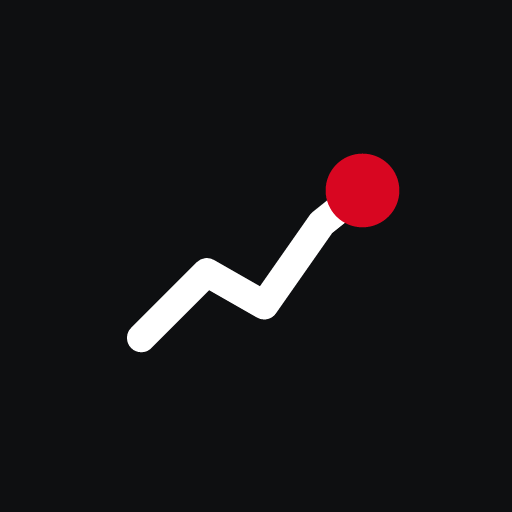
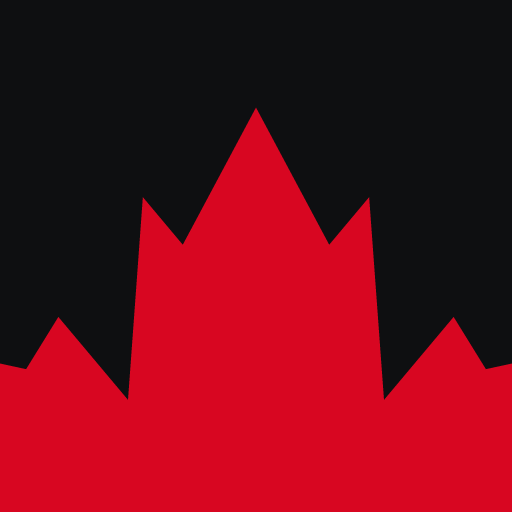
Maple leaf area-chart mark; site card uses the wordmark
The mark is now a red maple leaf drawn as an area chart on a square ink
tile. The top bar, favicon, app icons and profile images use it. The OG
site card shows the top bar's mark and statcan(2) wordmark at 72 px.

diff --git a/api/src/og.ts b/api/src/og.ts
@@ -5,6 +5,7 @@ import * as render from "../public/render.js";
 // @ts-expect-error Browser-owned pure-JS layout has no TypeScript declaration; fields are typed below.
 import * as exportLayout from "../public/export-layout.js";
 import type { Db } from "./db.ts";
+import { BRAND_MARK } from "./pages.ts";
 import { decodeSpec, type ViewResult, type ViewSeries } from "./spec.ts";
 import { runView } from "./view.ts";
 
@@ -18,6 +19,7 @@ const { esc, seriesShades, methodLines, ownPoints, isHorizontal } = render as un
 const sans = fileURLToPath(new URL("../node_modules/geist/dist/fonts/geist-sans/Geist-SemiBold.ttf", import.meta.url));
 const regular = fileURLToPath(new URL("../node_modules/geist/dist/fonts/geist-sans/Geist-Regular.ttf", import.meta.url));
 const mono = fileURLToPath(new URL("../node_modules/geist/dist/fonts/geist-mono/GeistMono-Regular.ttf", import.meta.url));
+const monoMedium = fileURLToPath(new URL("../node_modules/geist/dist/fonts/geist-mono/GeistMono-Medium.ttf", import.meta.url));
 type Layout = {
   width: number; height: number; margin: number; scale: number;
   title: { y: number; size: number; minSize: number };
@@ -347,11 +349,15 @@ export function chartSvg(view: ViewResult) {
   </svg>`;
 }
 
-// The site card: title, one line on what the site is, and a sample line drawn like an export's series line.
+// The site card: the top bar's mark and wordmark at 72 px, one line on what the site is, and a sample line
+// drawn like an export's series line. Sizes and spacing scale the top bar's CSS (19 px wordmark) by 72/19.
 function siteSvg() {
+  const size = 72, k = size / 19, baseline = 128;
+  const mark = 20 * k, markY = baseline - .31 * size - mark / 2;
   return `<svg xmlns="http://www.w3.org/2000/svg" width="1200" height="630" viewBox="0 0 1200 630">
     <rect width="1200" height="630" fill="${paper}"/>
-    <text x="64" y="128" font-family="${FONTS.sans}" font-size="72" font-weight="600" fill="${ink}">${text(PUBLIC_HOST)}</text>
+    <svg x="64" y="${markY.toFixed(1)}" width="${mark.toFixed(1)}" height="${mark.toFixed(1)}" viewBox="0 0 100 100">${BRAND_MARK}</svg>
+    <text x="${(64 + mark + 8 * k).toFixed(1)}" y="${baseline}" font-family="${FONTS.sans}" font-size="${size}" font-weight="600" letter-spacing="${(-.03 * size).toFixed(2)}" fill="${ink}">statcan<tspan dx="${(2 * k).toFixed(1)}" font-family="${FONTS.mono}" font-size="${(15 * k).toFixed(1)}" font-weight="500" letter-spacing="${(-.05 * 15 * k).toFixed(2)}" fill="${palette[0]}">(2)</tspan></text>
     <text x="64" y="186" font-family="${FONTS.sans}" font-size="28" fill="${muted}">Explore and chart published Statistics Canada data.</text>
     <path d="${SITE_LINE}" fill="none" stroke="${palette[0]}" stroke-width="5" stroke-linejoin="round" stroke-linecap="round"/>
   </svg>`;
@@ -372,7 +378,7 @@ function textSvg(title: string, description: string) {
 }
 
 function png(svg: string) {
-  return new Resvg(svg, { fitTo: { mode: "original" }, font: { fontFiles: [regular, sans, mono], loadSystemFonts: false,
+  return new Resvg(svg, { fitTo: { mode: "original" }, font: { fontFiles: [regular, sans, mono, monoMedium], loadSystemFonts: false,
     defaultFontFamily: "Geist" } }).render().asPng();
 }
 

diff --git a/api/src/pages.ts b/api/src/pages.ts
@@ -17,9 +17,12 @@ const HIGHCHARTS = { src: "https://cdn.jsdelivr.net/npm/highcharts@13.1.1/highch
 const PUBLIC_DIR = fileURLToPath(new URL("../public", import.meta.url));
 
 
+/** The favicon's mark (brand/build.mjs concept f, the maple leaf as an area chart) on a 100×100 viewBox. */
+export const BRAND_MARK = `<rect width="100" height="100" fill="#0E0F11"/><path d="M0 100L0 64L5.1 65.1L11.4 54.9L25 71.1L27.9 31.5L35.7 40.8L50 14L64.3 40.8L72.1 31.5L75 71.1L88.6 54.9L94.9 65.1L100 64L100 100Z" fill="#D80621"/>`;
+
 function logo() {
-  // The favicon's mark (brand/build.mjs concept e, small drawing), then the wordmark.
-  return html`<a class="brand" data-pp="pp_mury6rk1a84x" href="/" aria-label="statcan(2) home"><svg class="brand-mark" viewBox="0 0 100 100" aria-hidden="true"><rect width="100" height="100" rx="18" fill="#0E0F11"/><path d="M18 72L40 52L56 60L74 32" fill="none" stroke="#fff" stroke-width="11" stroke-linejoin="round" stroke-linecap="round"/><circle cx="74" cy="32" r="11" fill="#D80621"/></svg><span class="brand-word">statcan<span class="brand-version">(2)</span></span></a>`;
+  // The mark, then the wordmark.
+  return html`<a class="brand" data-pp="pp_mury6rk1a84x" href="/" aria-label="statcan(2) home"><svg class="brand-mark" viewBox="0 0 100 100" aria-hidden="true">${raw(BRAND_MARK)}</svg><span class="brand-word">statcan<span class="brand-version">(2)</span></span></a>`;
 }
 
 /** The last top bar item, on every page: an outline button to the project's Buy Me a Coffee page, in a new tab. */

diff --git a/DESIGN.md b/DESIGN.md
@@ -20,7 +20,7 @@ The site is a data terminal. It is a serious tool, not a marketing site.
    - **Reference pages** (`/api`, `/mcp`) keep the same 56 px top bar and 48 px footer as the app. Their article scrolls between those fixed rows, so the footer has the same top and height at 1440 × 900 on home, chart and reference pages.
    - Rows in lists use a minimum height, not a fixed height, so a long title wraps and the row grows.
 3. **Real data only.** Every number, title, member, note and ID comes from a build on the SSD (`v0` and its Normalized build `n4` for WDS tables, `census-full-1` for Census tables). Never invent a value.
-4. **Not official.** The site must not look like a Government of Canada service. No maple leaf, no FIP bar, no government colours or wordmark. Every page with a footer says "Independent. Not affiliated with Statistics Canada." Statistics Canada is named only as the source of the data.
+4. **Not official.** The site must not look like a Government of Canada service. No flag, Canada wordmark or government maple leaf symbol, no FIP bar, no government colours. The one leaf is the logo's: drawn as an area chart, cropped, on an ink tile. Every page with a footer says "Independent. Not affiliated with Statistics Canada." Statistics Canada is named only as the source of the data.
 5. **Check before hand-off.** Screenshot changed screens at 1440 × 900 and 1900 × 1040. Look for clipped text, overlaps and lines that do not align.
 6. **Desktop first.** The app screen also works on a phone: the head band stacks, the plot is 60 % of the viewport height, and the chart builder becomes a bottom sheet. Document pages are desktop only.
 
@@ -111,12 +111,12 @@ The palette was chosen for colour-blind separation: under simulated protanopia, 
 | Component | Spec |
 |---|---|
 | **Top bar** | 56 px high, wordmark at left (padding 48), "API", "MCP" and a 32 px outline "Donate" button (https://buymeacoffee.com/statcan2, new tab) at right (padding 24), and no rule under it on any page. The search box is centred on the viewport, not on the space between the wordmark and the nav, at one width, min(640 px, viewport − 440 px), 40 px high, 8 px from the top: the same x, y and width on the app screen, the home page and every reference page (`api/public/topbar.css`). It has a red `›`, Geist 18, a 2 px ink underline and no outline; reference pages submit it to `/?q=`. On the app screen a 2 px progress line runs along the bar's bottom edge while a request is in flight. The chart's actions sit in the detail rail, not in the top bar. Phones (≤ 900 px): the box fills the space after the wordmark and the nav is hidden. |
-| **Logo** | The mark, 20 px, 8 px gap, then "statcan" in Geist 19/22 600, tight tracking, followed by "(2)" in red Geist Mono 15/22 500. The mark is the favicon: a white rising line ending in a red dot on an ink tile (`brand/README.md`). No government wordmark or maple leaf. |
+| **Logo** | The mark, 20 px, 8 px gap, then "statcan" in Geist 19/22 600, tight tracking, followed by "(2)" in red Geist Mono 15/22 500. The mark is the favicon: a red maple leaf drawn as an area chart on a square ink tile (`brand/README.md`). No government wordmark or flag leaf. |
 | **Head band** | Above the plot, padding 20 24 12 48. Eyebrow in mono 12 secondary, one line, cut with an ellipsis: one source table shows its number (ink, linking to the official Statistics Canada table in a new tab) then `·` and the table title, with the full title in a tooltip (`14-10-0397-01 · Labour force characteristics by family structure, monthly…`); several tables show only their numbers, each linked, with titles in tooltips. Title Geist 32/38 600 (from `ViewResult.title`; it describes the chart, not the table). Sub line Geist 15 secondary, parts joined by ` · `, each part only once: `ViewResult.subtitle`; then the period from `ViewResult.period` (`Aug 2025 – Aug 2026`, one date when from = to) unless the subtitle already names it; then the axis units unless the subtitle names them; then the transform name only when the title does not already say it (a title with "% change" drops "% change over window"). Example: "Gasoline vs Food by province, % change over 1 year" / "Aug 2025 – Aug 2026 · %". Warnings (`ViewResult.warnings`) follow as mono 12 lines with a red `!`, never as a modal. "Also" offers the planner's alternatives as one mono 12 line of links, each cut to 36 characters; the row is absent when there are none. An alternative over the same tables with another chart type reads "as area chart" (etc.); other alternatives show the planner's label. The "Chart builder" button sits at the right, aligned to the bottom of the band; it is ink-filled while the sidebar is open. |
 | **Detail rail** | 48 px band under the plot with no top rule, padding 0 24 0 48. One row of small buttons: Table, Notes (count), Download, Cite (count when more than one source), API; then, after a 1 px `Rule` divider, the two actions: **Screenshot** (outline, camera icon) and **Share** (ink fill, white text, share icon). Each button is 28 px high, Geist 13 500, count in mono 11 tertiary; a detail button whose popover is open is ink-filled with white text. On phones the two actions show icons only (their names stay as accessible labels). There is no toast: each action's own label confirms it (on phones the word shows in the button while it flashes). The independence line sits at the right in mono 12 tertiary (hidden on phones). Buttons and actions are hidden in the blank states. |
 | **Screenshot** | Copies the export PNG to the clipboard (`navigator.clipboard.write` with a `ClipboardItem` holding the PNG's Promise, so Safari keeps the click's user activation); the label reads "Copied". If the clipboard cannot take an image (no `ClipboardItem`, not a secure context, or the write is refused), the same PNG downloads, named from the title (`renter-vs-owner-by-province.png`), and the label reads "Saved". The button's label reads "Copied", "Saved" or "Failed" for 1.5 s; every label shares one grid cell, so the button never changes size. The image is the **Export** below. |
 | **Share** | Copies the published link, `https://statcan2.ca/?q=…&s=…` (the exact chart, with an open popover's `#p-…` if any); its label reads "Copied" for 1.5 s in a box of fixed size. On touch devices with `navigator.share` it opens the system share sheet instead. Local testing can point the link elsewhere with `?origin=…` (not copied into the link). |
-| **Export** | One look for the Screenshot PNG and the OG image (`/og/chart.png`); the numbers live in `api/public/export-layout.js`, which both renderers import. Screenshot: a fixed 1600×900 canvas at 2× (3200×1800), the same at any window size and builder state; OG: 1200×630, every size scaled by width. 64 px side margins. Top to bottom: title Geist 600 56 px on one line, shrinking to 40 px, then cut with `…`; the page's sub line in Geist 24 secondary; method and gap lines in Geist Mono 20 secondary; a 1 px `Rule`. The plot: lines 3.5 px, markers only on isolated points, axis labels Geist Mono 18 secondary, light gridlines, ticks at least 150 px apart, each axis titled with its unit when there are two. A single series has no label or legend: the title and sub line name it, and the plot keeps the full width. Legend: a line chart with 2–4 drawn series gets direct labels at the line ends instead (Geist 20 in the series colour, name then the last value in 600, at most 300 px wide with long names cut with `…`, pushed apart so they never overlap); otherwise one legend row of 14 px swatches and Geist 19 names, wrapping to at most 2 rows; over 12 series, the top 12 by last value and "+N more"; unpublished series listed as on screen ("not published"). Then a 1 px `Rule` and the footer in Geist Mono 18 secondary: `Table 18-10-0004-01` at left (all tables, cut with `…` if too long), `statcan2.ca` at right (the period is already in the sub line). The image never names the request host. In the OG image, long value labels move the plot right so they stay inside the margin. The site card (`/og/site.png`, and any chart link that does not resolve): `statcan2.ca` in Geist 600 72, "Explore and chart published Statistics Canada data." in Geist 28 secondary, and one sample line in red, 5 px, across the lower half; no eyebrow, rules or footer. Geist and Geist Mono are loaded for every character drawn before the canvas is drawn, and the plot's SVG embeds them, so no glyph falls back or drops (checked: every "s" of "Seasonally adjusted"). |
+| **Export** | One look for the Screenshot PNG and the OG image (`/og/chart.png`); the numbers live in `api/public/export-layout.js`, which both renderers import. Screenshot: a fixed 1600×900 canvas at 2× (3200×1800), the same at any window size and builder state; OG: 1200×630, every size scaled by width. 64 px side margins. Top to bottom: title Geist 600 56 px on one line, shrinking to 40 px, then cut with `…`; the page's sub line in Geist 24 secondary; method and gap lines in Geist Mono 20 secondary; a 1 px `Rule`. The plot: lines 3.5 px, markers only on isolated points, axis labels Geist Mono 18 secondary, light gridlines, ticks at least 150 px apart, each axis titled with its unit when there are two. A single series has no label or legend: the title and sub line name it, and the plot keeps the full width. Legend: a line chart with 2–4 drawn series gets direct labels at the line ends instead (Geist 20 in the series colour, name then the last value in 600, at most 300 px wide with long names cut with `…`, pushed apart so they never overlap); otherwise one legend row of 14 px swatches and Geist 19 names, wrapping to at most 2 rows; over 12 series, the top 12 by last value and "+N more"; unpublished series listed as on screen ("not published"). Then a 1 px `Rule` and the footer in Geist Mono 18 secondary: `Table 18-10-0004-01` at left (all tables, cut with `…` if too long), `statcan2.ca` at right (the period is already in the sub line). The image never names the request host. In the OG image, long value labels move the plot right so they stay inside the margin. The site card (`/og/site.png`, and any chart link that does not resolve): the top bar's mark and wordmark scaled to 72 px (mark 76 px, "statcan" Geist 600, "(2)" red Geist Mono 500), "Explore and chart published Statistics Canada data." in Geist 28 secondary, and one sample line in red, 5 px, across the lower half; no eyebrow, rules or footer. Geist and Geist Mono are loaded for every character drawn before the canvas is drawn, and the plot's SVG embeds them, so no glyph falls back or drops (checked: every "s" of "Seasonally adjusted"). |
 | **Detail popover** | Opened by its rail button; one at a time. It sits above its button, centred on it and clamped 12 px inside the window, with a 10 px caret pointing down at the button. White, 1 px `Border`, a very light shadow (0 2 10 ink at 6 %) only to lift it off the plot. No title inside: the ink-filled rail button says which one is open (the name stays for screen readers). A 24 px × sits in the top-right corner, in a 40 px lane on the right that content never enters (body padding), so the body's scrollbar sits at the popover's right edge, right of the ×. All content has one inset: 16 px top and bottom, 20 px left (16 px on phones); the Table has no top inset, because its sticky header carries it. The body is the only part that scrolls (it never scrolls the page). Width: Download and Cite 600 px, API 720 px, Notes 760 px; Table is as wide as its table plus the insets (no blank area to the right) up to 960 px, and a wider table scrolls inside. Never wider than the window minus 24 px. Height fits the content up to 70 % of the window, and never above the top bar. It closes on the same button, × , Esc, or a click outside; focus moves into it on open, Tab and Shift+Tab stay inside it, and focus returns to its button on close. `#p-table`, `#p-notes`, `#p-download`, `#p-cite`, `#p-api` open the matching popover on load, so old links keep working. A new chart keeps the open popover, re-filled and re-anchored; a blank state closes it. On phones (≤ 900 px) it is a bottom sheet: full width, directly above the rail, up to the top bar, 1 px ink rule on top, no caret, no shadow. Without JavaScript the five panels appear as plain sections below the screen, each with its title, and the rail buttons are links to them. |
 | **Chart builder** | Right sidebar, 380 px, 1 px rule on the left, full height under the top bar, scrolls on its own. Closed by default. Head "Chart builder" with a × close. Every control sits on one grid: the section's 20 px insets are the left and right edges, and every select, input and segmented control is 32 px high, 1 px `Border`, square, Geist 13 (Geist Mono 12 in segments, mono in date fields). Field labels sit above their control in mono 11 secondary. Sections, each with a mono 11 uppercase label: Chart (the six type icons as one full-width segmented control with equal cells; for bars, Horizontal and Sort in two equal columns), Time (Latest 1Y 2Y 5Y 10Y 20Y Max as one full-width segmented control; From and To in two equal columns under it, plus At in a third for x-category charts), Transform (a full-width select; "Index = 100 at" adds a base field under it, empty for the first published point, or a period `2015`, `2015-06`, `2015-Q2`, written as `index_base`), Series (fixed 24 px swatch and 48 px Hide columns, then the name, on one line), Tables (one block per layer: table number, title, Remove; then one collapsible row per dimension: name and a mono summary such as `series · 10 selected`; inside, the Use select at full width, quick sets as mono chips, a search box above 8 members, the member list, and groups), Add table (search, then one row per hit), and a collapsed "How this was chosen" list of planner steps. On phones it is a bottom sheet, 72 % of the viewport high, with a 1 px ink rule on top; the same grid holds at 320 px. |
 | **Member list** | At most 200 rows, never the whole dimension (a Census geography has 63,404 members). Without search text: the checked members first, as a flat list in the order they were picked (no indent, a rule under the last one), then the master checklist in tree order, indented 14 px per level. With search text: the matches across all members, in member order, each with its parent in mono 11 tertiary (`Saskatoon · Division No. 11`), because many places share a name. A mono 11 tertiary last row says how many more there are ("63,204 more members; search to find them", "3,668 more matches; type more to narrow"). Typing re-renders only that list, about 120 ms after the last key. |

diff --git a/brand/README.md b/brand/README.md
@@ -4,31 +4,30 @@ Every file here and in `api/public/brand/` is generated by `node brand/build.mjs
 
 ## Mark
 
-A rising line that ends in a red dot, white on an ink tile. It is the chart motif from the banners and OG cards: the red dot is the latest value. The mark is about the data, not the `(2)`, so `(2)` stays a wordmark suffix that other projects can share. Two drawings:
+A maple leaf drawn as an area chart: a red leaf on a square ink tile. The leaf's top edge is the chart line, and the red fill runs to the bottom edge. The leaf is cropped at both sides like a chart cut at its axis, so it reads as data first and Canada second. The tile is square, like everything else on the site. The mark is about the data, not the `(2)`, so `(2)` stays a wordmark suffix that other projects can share.
 
-- **Large** (`logo-mark.svg`): five points, a 7-unit line. Use it at 48 px and up.
-- **Small** (`logo-mark-small.svg`, `favicon.svg`, `favicon.ico`, the site top bar): four points, an 11-unit line, a bigger dot. Use it at 16–32 px.
+One drawing (concept f in `build.mjs`) serves every size. `logo-mark.svg` (512 px) and `logo-mark-small.svg` (32 px; also `favicon.svg`, `favicon.ico` and the site top bar) differ only in their declared size. When an icon needs padding, only the top point moves down; the fill stays full-bleed at the sides and bottom.
 
 App icons and avatars (`apple-touch-icon.png`, `icon-*.png`, `profile-*.png`) fill the whole square with ink, because the platform crops the corners.
 
-Wordmark (`logo-wordmark.svg`): `statcan` in Geist 600 ink, then `(2)` in Geist Mono 500 red, on one baseline. The site top bar shows the small mark, 20 px, then this wordmark.
+Wordmark (`logo-wordmark.svg`): `statcan` in Geist 600 ink, then `(2)` in Geist Mono 500 red, on one baseline. The site top bar shows the mark, 20 px, then this wordmark. The OG site card (`/og/site.png`) shows the same pair at 72 px.
 
-Earlier concepts a–d (the `(2)`, `s2`, a line in parentheses, bars) stay in `concepts/` for comparison.
+Earlier concepts a–e (the `(2)`, `s2`, a line in parentheses, bars, a rising line with a red dot) stay in `concepts/` for comparison.
 
 ## Colours
 
 | Name | Hex | Use |
 | --- | --- | --- |
-| Ink | `#0E0F11` | the `2`, `statcan` |
-| Accent | `#D80621` | the parentheses, `(2)` |
+| Ink | `#0E0F11` | the tile, `statcan` |
+| Accent | `#D80621` | the leaf, `(2)` |
 | Paper | `#FFFFFF` | background |
-| Dark-mode accent | `#FF3B4E` | `favicon.svg` only, under `prefers-color-scheme: dark` (the tile turns white and the line ink) |
+| Dark-mode accent | `#FF3B4E` | `favicon.svg` only, under `prefers-color-scheme: dark` (the tile turns white) |
 
-The values come from `COLORS` in `api/public/export-layout.js`. Red is never a background fill.
+The values come from `COLORS` in `api/public/export-layout.js`. Red fills only the leaf; it is never a page or tile background.
 
 ## Clear space and minimum size
 
-- Clear space: keep space equal to the height of the `2` on every side of the mark. For the wordmark, keep the height of `(2)` on every side.
+- Clear space: keep a quarter of the tile's width clear on every side of the mark. For the wordmark, keep the height of `(2)` on every side.
 - Minimum size: mark 16 px (small drawing); wordmark 80 px wide.
 - Do not recolour, outline, rotate or put the mark on a coloured or photographic background.
 
@@ -48,4 +47,4 @@ The values come from `COLORS` in `api/public/export-layout.js`. Red is never a b
 | `brand/header-linkedin-1584x396.png` | LinkedIn page banner |
 | `brand/logo-mark.svg`, `logo-mark-small.svg` | the mark as vectors |
 | `brand/logo-wordmark.svg` | `statcan(2)` as a vector |
-| `brand/concepts/` | the three concepts and `contact-sheet.png` (every size, crop checks, both headers) |
+| `brand/concepts/` | the earlier concepts and `contact-sheet.png` (every size, crop checks, both headers) |
